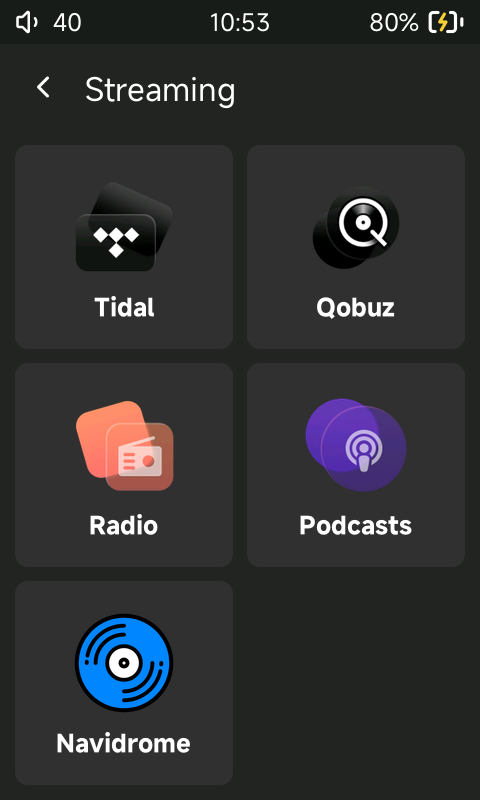
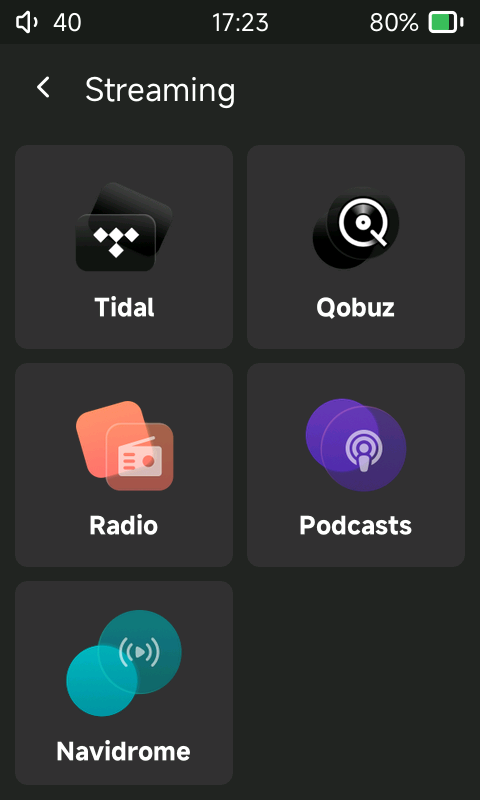
streaming: match the Navidrome tile shown in #253
Use the same streaming icon and neutral card as the example in #253, labeled
Navidrome. Screenshots updated.

Changed region(s): [[0.125, 0.75, 0.4062, 0.9688], [0.4375, 0.0, 0.5625, 0.0625], [0.875, 0.0, 0.9375, 0.0625]]

diff --git a/sonix-player/src/gui/streaming/streaming.c b/sonix-player/src/gui/streaming/streaming.c
@@ -24,7 +24,7 @@ void streaming_init(gui_config_t *cfg) {
 		{"qobuz", &icon_menu_qobuz, &qobuz_screen, NULL},
 		{"radio", &icon_menu_radio, &radiopage_screen, NULL},
 		{"podcasts", &icon_menu_podcast, &podcast_screen, NULL},
-		{"subsonic", &icon_menu_navidrome, &subsonic_screen, NULL},
+		{"subsonic", &icon_menu_streaming, &subsonic_screen, NULL},
 	};
 
 	// Two columns and three rows of tile, exactly like Music and Wireless, so a
